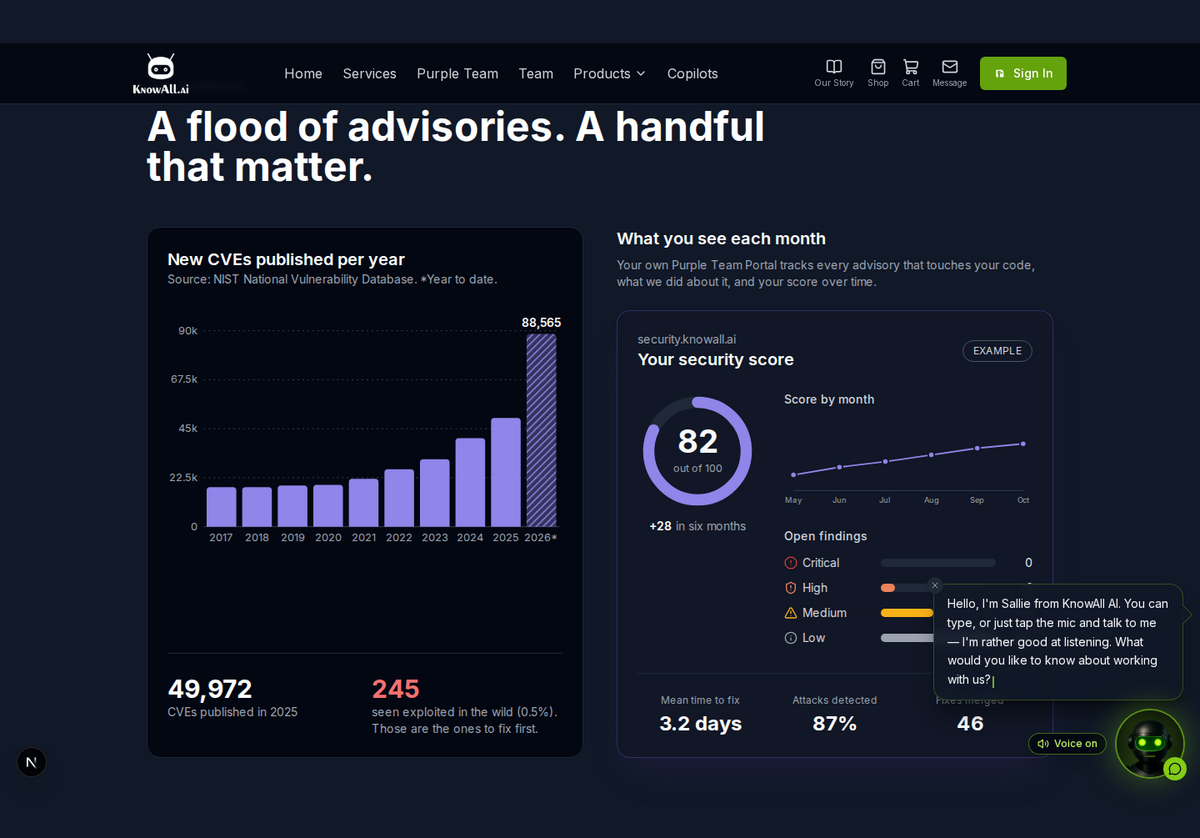
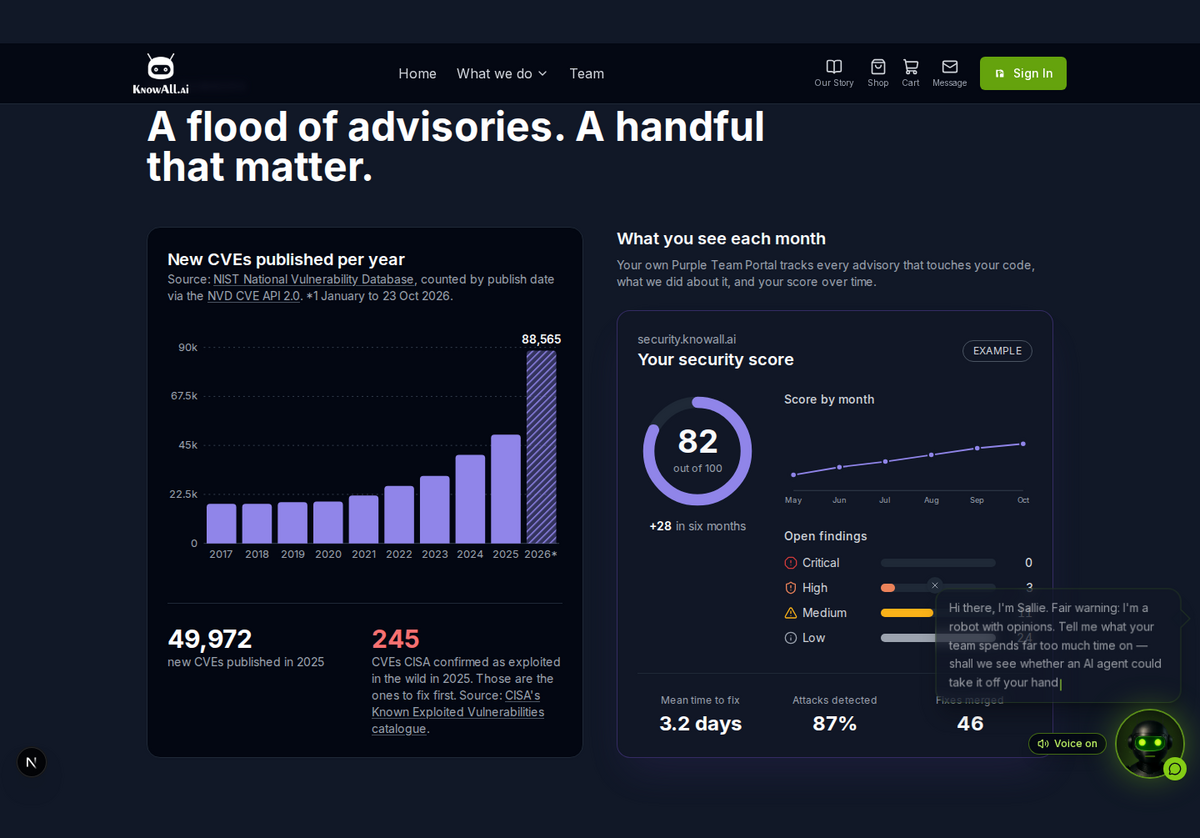
feat(purple-team): link every figure to its public source
The CVE chart, the KEV figure and the headline numbers now link to the
NIST NVD (and the CVE API used to count by publish date) and CISA's KEV
catalogue, with the snapshot date shown. Source URLs live beside the
figures in data.ts.

Refs #189

diff --git a/app/purple-team/page.tsx b/app/purple-team/page.tsx
@@ -19,6 +19,7 @@ import {
   KEV_ADDED_LAST_YEAR,
   CVES_LAST_30_DAYS,
   CVES_AS_OF,
+  SOURCES,
 } from '@/components/purple-team/data';
 
 export const metadata: Metadata = {
@@ -129,6 +130,26 @@ const faqs = [
 
 const fmt = (n: number) => n.toLocaleString('en-GB');
 
+const asOfLabel = new Date(`${CVES_AS_OF}T00:00:00Z`).toLocaleDateString('en-GB', {
+  day: 'numeric',
+  month: 'short',
+  year: 'numeric',
+  timeZone: 'UTC',
+});
+
+function SourceLink({ source }: { source: { label: string; url: string } }) {
+  return (
+    <a
+      href={source.url}
+      target="_blank"
+      rel="noopener noreferrer"
+      className="underline decoration-gray-600 underline-offset-2 hover:text-violet-300"
+    >
+      {source.label}
+    </a>
+  );
+}
+
 function Eyebrow({ children }: { children: React.ReactNode }) {
   return (
     <p className="mb-4 text-xs font-semibold uppercase tracking-[0.25em] text-violet-300">
@@ -237,6 +258,10 @@ export default function PurpleTeamPage() {
           No person can read every advisory. The skill is knowing which handful affect <em>your</em>{' '}
           code and are being exploited, and fixing those first.
         </p>
+        <p className="mx-auto mt-3 max-w-2xl text-center text-xs text-gray-500">
+          Sources: <SourceLink source={SOURCES.nvd} /> (CVEs published in the 30 days to {asOfLabel}
+          ) and <SourceLink source={SOURCES.kev} /> (entries added in 2025).
+        </p>
       </section>
 
       {/* How it works: big illustrated steps */}
@@ -343,7 +368,8 @@ export default function PurpleTeamPage() {
             <div className="flex flex-col rounded-2xl border border-gray-800 bg-gray-950 p-6">
               <h3 className="text-xl font-semibold">New CVEs published per year</h3>
               <p className="mb-6 text-sm text-gray-400">
-                Source: NIST National Vulnerability Database. *Year to date.
+                Source: <SourceLink source={SOURCES.nvd} />, counted by publish date via the{' '}
+                <SourceLink source={SOURCES.nvdApi} />. *1 January to {asOfLabel}.
               </p>
               <CveTrendChart data={CVES_PER_YEAR} asOf={CVES_AS_OF} />
               <KevCallout />
@@ -486,7 +512,7 @@ function KevCallout() {
         <p className="text-3xl font-bold text-red-400">{fmt(KEV_ADDED_LAST_YEAR)}</p>
         <p className="text-sm text-gray-400">
           CVEs CISA confirmed as exploited in the wild in {last.year}. Those are the ones to fix
-          first.
+          first. Source: <SourceLink source={SOURCES.kev} />.
         </p>
       </div>
     </div>

diff --git a/tests/purple-team.spec.ts b/tests/purple-team.spec.ts
@@ -29,6 +29,15 @@ test.describe('Purple Team Page', () => {
     ).toBeVisible();
     await expect(page.getByRole('img', { name: /Security score \d+ out of 100/ })).toBeVisible();
 
+    // Every real figure links to its public source.
+    const numbers = page.locator('#numbers');
+    await expect(
+      numbers.getByRole('link', { name: 'NIST National Vulnerability Database' })
+    ).toHaveAttribute('href', 'https://nvd.nist.gov/vuln/search');
+    await expect(
+      numbers.getByRole('link', { name: "CISA's Known Exploited Vulnerabilities catalogue" })
+    ).toHaveAttribute('href', 'https://www.cisa.gov/known-exploited-vulnerabilities-catalog');
+
     await page.getByRole('button', { name: 'Is it legal to attack our systems?' }).click();
     await expect(page.getByText('Only with your written permission.')).toBeVisible();
   });

diff --git a/components/purple-team/data.ts b/components/purple-team/data.ts
@@ -29,3 +29,19 @@ export const CVES_LAST_30_DAYS = 16966;
 
 /** CISA Known Exploited Vulnerabilities catalogue entries with a 2025 `dateAdded`. */
 export const KEV_ADDED_LAST_YEAR = 245;
+
+/** Where the figures come from, linked under each chart and number on the page. */
+export const SOURCES = {
+  nvd: {
+    label: 'NIST National Vulnerability Database',
+    url: 'https://nvd.nist.gov/vuln/search',
+  },
+  nvdApi: {
+    label: 'NVD CVE API 2.0',
+    url: 'https://nvd.nist.gov/developers/vulnerabilities',
+  },
+  kev: {
+    label: "CISA's Known Exploited Vulnerabilities catalogue",
+    url: 'https://www.cisa.gov/known-exploited-vulnerabilities-catalog',
+  },
+} as const;
